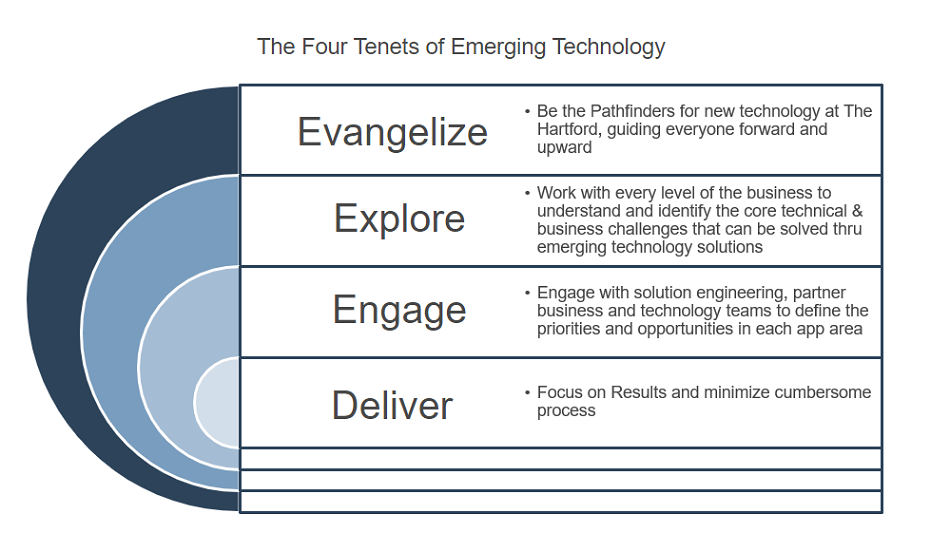
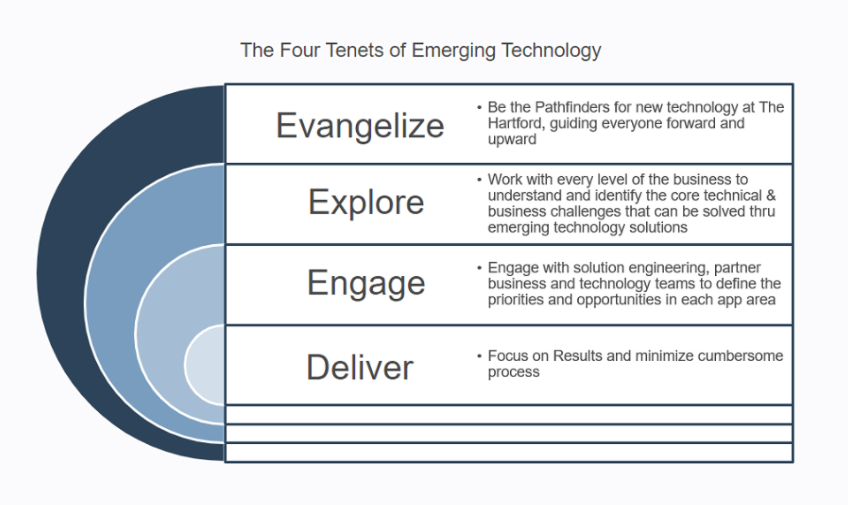
g

Changed region(s): [[0.0, 0.1485, 0.9505, 0.9505], [0.2759, 0.0594, 0.7052, 0.1188], [0.3373, 0.3564, 0.5212, 0.4455]]

diff --git a/client/src/home/Home.svelte b/client/src/home/Home.svelte
@@ -67,8 +67,7 @@
   <hr />
   <br />
   <span class="preamble">Goals</span>
-
-  <div><img src="./logo.png" alt="technology graphic" /></div>
+  <img class="center" src="./pillars.png" alt="technology graphic" />
 <!--
   <div class="goals">
     <ul class="stacked">
@@ -129,8 +128,17 @@
     display: flex;
   }
   .centered {
-    width: 1500px;
-    margin: 0 auto;
+    display: block;
+    margin-left: auto;
+    margin-right: auto;
+    width: 65%;
+  }
+
+  .center {
+    display: block;
+    margin-left: auto;
+    margin-right: auto;
+    width: 70%;
   }
 
   img {
